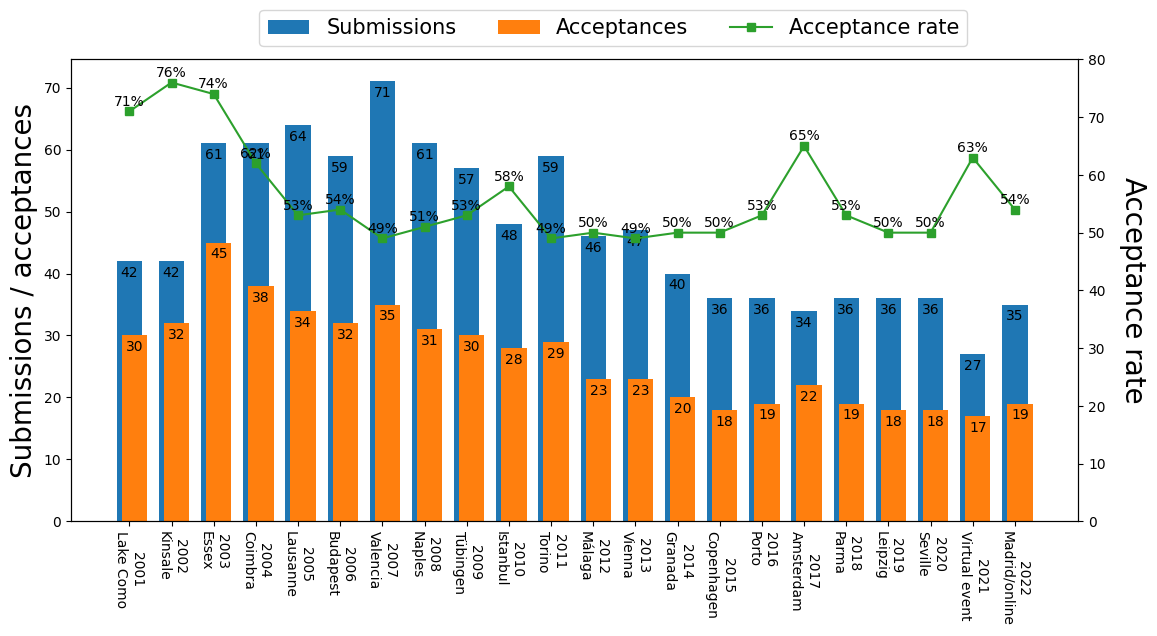
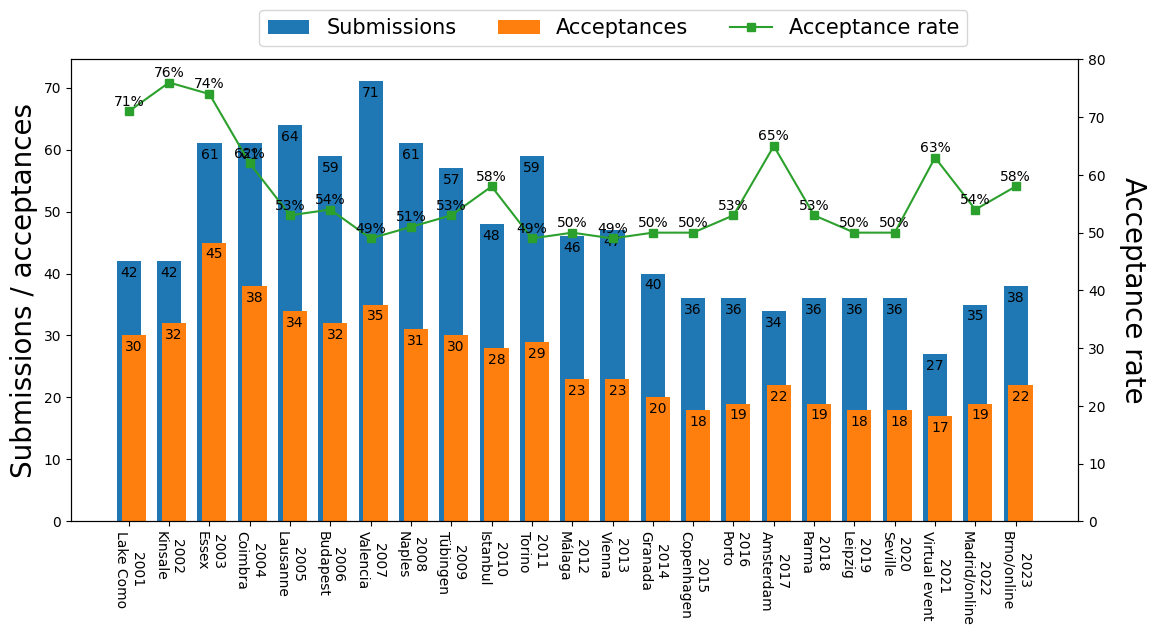
update stats of evostar2023

Changed region(s): [[0.0933, 0.0896, 0.9023, 0.9858]]

diff --git a/index.md b/index.md
@@ -27,8 +27,6 @@ The date format in the following table is ``Year.Month.Day``. The submission dea
 
 |  Conference  | Venue | Start date | End date | Abstract submission | Paper submission |
 | ---- | ---- | ---- | ---- | ---- | ---- |
-| [EMO 2023](https://emo2023.liacs.leidenuniv.nl) | Leiden, The Netherlands | 2023.03.20 | 2023.03.24 |  | 2022.09.26|
-| [Evostar 2023](https://www.evostar.org/2023/) | Brno, Czech Republic | 2023.04.12 | 2023.04.14 | | 2022.11.01 |
 | [CEC 2023](https://2023.ieee-cec.org/) | Chicago, USA | 2023.07.02 | 2023.07.05 |  |2023.01.13  |
 | [GECCO 2023](https://gecco-2023.sigevo.org/) | Lisbon , Portugal | 2023.07.15 | 2023.07.19 | 2023.02.03  | 2023.02.10 |
 | [FOGA 2023](https://hpi.de/foga2023/) | Potsdam, Germany | 2023.08.30 | 2023.09.01 |  | 2023.04.27 |
@@ -262,6 +260,7 @@ EuroGP is held as part of EvoStar, which consists of EuroGP, EvoApplications, Ev
 | 2020 | 36         | 18         | 50%             | Seville    | 
 | 2021 | 27         | 17         | 63%             | Virtual event    | 
 | 2022 | 35         | 19         | 54%             | Madrid/online    | 
+| 2023 | 38         | 22         | 58%             | Brno/online    | 
 
 ![EuroGP](fig/stats_eurogp.png) 
 
@@ -297,6 +296,7 @@ EvoCOP is held as part of EvoStar, which consists of EuroGP, EvoApplications, Ev
 | 2020 | 37         | 14         | 38%             | Seville    | 
 | 2021 | 42         | 14         | 33%             | Virtual event    | 
 | 2022 | 28         | 13         | 46%             | Madrid/online    |
+| 2023 | 32         | 15         | 47%             | Brno/online    |
 
 ![EvoCOP](fig/stats_evocop.png) 
 
@@ -321,6 +321,7 @@ EvoMUSART is held as part of EvoStar, which consists of EuroGP, EvoApplications,
 | 2020 | 31         | 15         | 48%             | Seville    | 
 | 2021 | 66         | 31         | 47%             | Virtual event    | 
 | 2022 | 66         | 26         | 39%             | Madrid/online    |
+| 2022 | 55         | 27         | 49%             | Brno/online    |
 
 ![EvoMUSART](fig/stats_evomusart.png) 
 
@@ -348,6 +349,7 @@ EvoApplications is held as part of EvoStar, which consists of EuroGP, EvoApplica
 | 2020 | 62  | 44  | 71% | Seville    | 
 | 2021 | 78         | 51         | 65%             | Virtual event    | 
 | 2022 | 67         | 46         | 69%             | Madrid/online    |
+| 2023 | 201         | 51         | 25%             | Brno/online    |
 
 ![EvoApplications](fig/stats_evoapp.png) 
 
